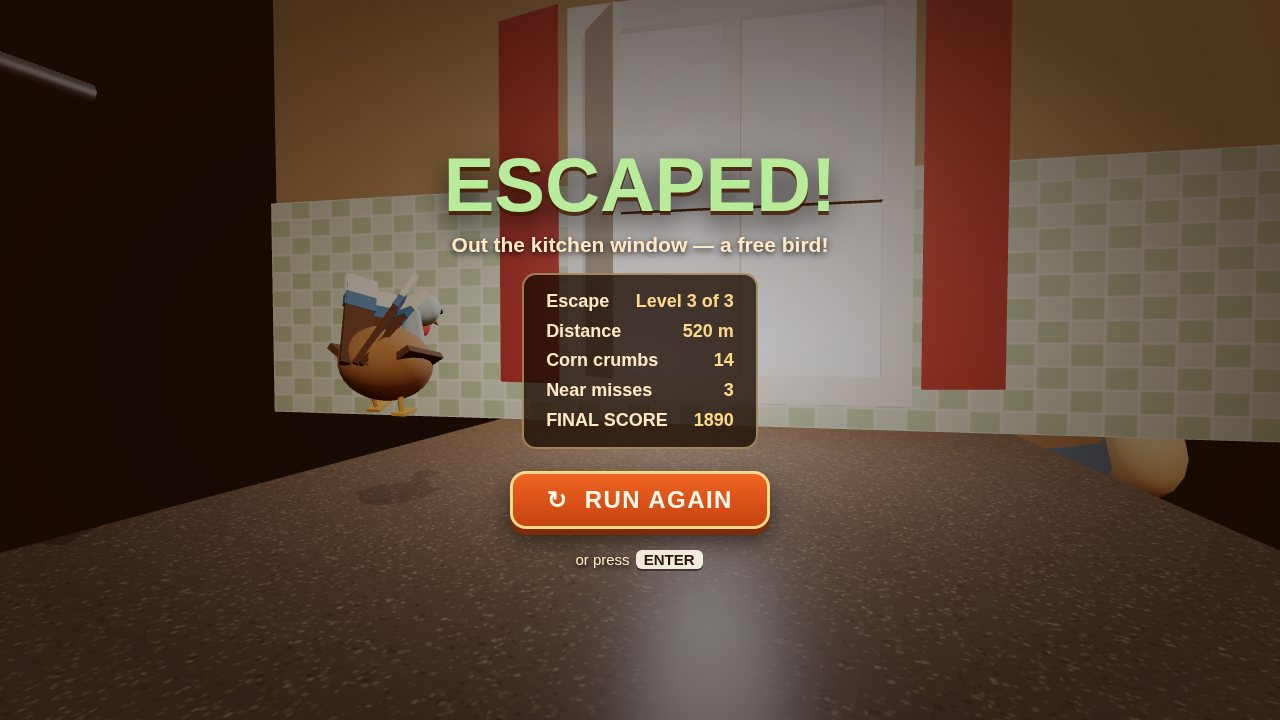
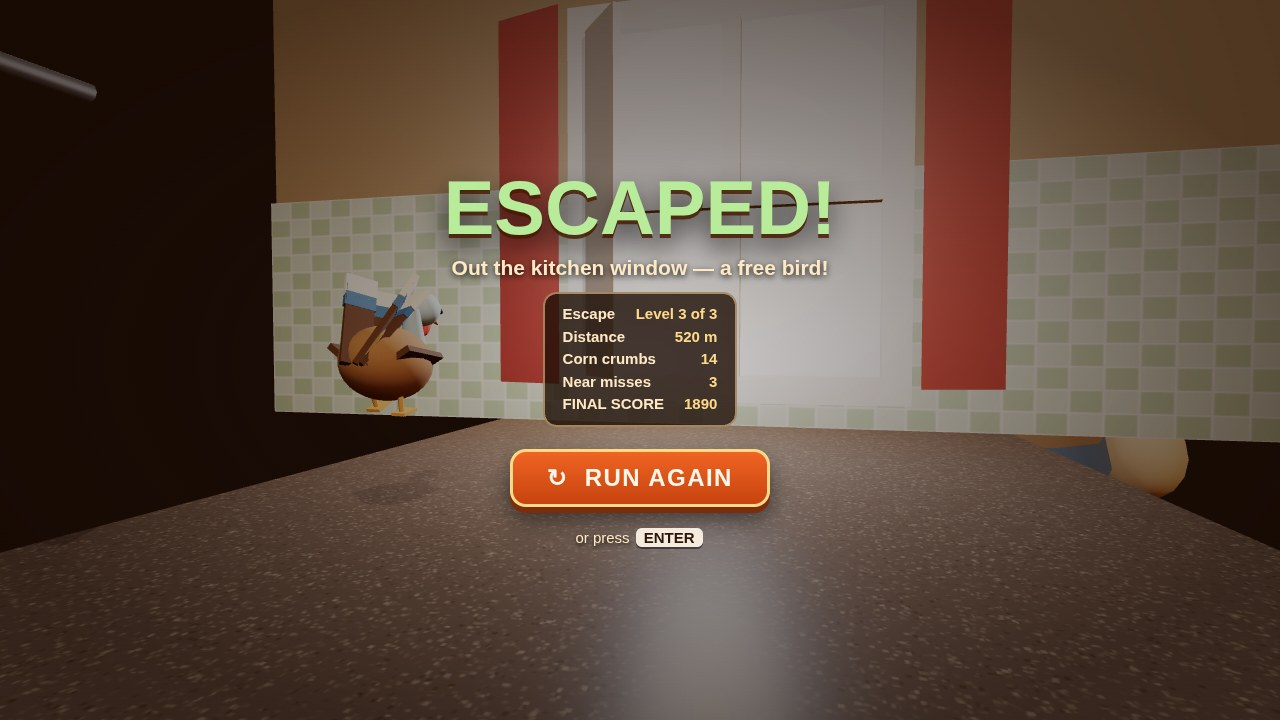
V2.1 frames: brighter L1 + visible grabbing hand, bigger CLOSE! pop, stronger window glow + smaller escaped stats, cat waking cues
- L1: exposure 1.12 -> 1.26, table hemi/fill lifted; hero hand re-staged
  swooping in from the top right, palm underside and curled fingers readable
- CLOSE! +15 flash: font clamp max 44px -> 60px, pop 0.9s -> 1.4s, still
  pinned at full scale
- L3 window: pane emissive 2.1 -> 3.4, window light 520 -> 950 (920±70 in
  update); escaped-screen stats panel shrunk (escaped-scoped CSS only)
- L2 cat: waking cues in applyCatPose — ear twitch (asymmetric, mid-wake
  envelope), head shake, staged eye-blink opening, tail flicker; floor
  still now poses the cat mid-wake instead of the asleep loaf
- Screenshots rebuilt (1280x720, all <= 262144 B), order unchanged

Changed region(s): [[0.3438, 0.2139, 0.75, 0.7944]]

diff --git a/game/src/shots.js b/game/src/shots.js
@@ -76,16 +76,16 @@ export function stageShot(name, game) {
     knife.blob.visible = true;
     knife.ring.position.set(-4.6, 0.26, -137.2);
     knife.ring.visible = true;
-    // The farmer's hand sweeps in at the right edge at cloth height — palm out
-    // of frame, fingers descending at the edge with the grab curl on, tips
-    // staggered like fingertips. (Centred and seen from above, the hand's flat
-    // faces filled half the frame as a wall of boards; at the edge it reads
-    // as what it is and leaves the bird alone.)
+    // The farmer's hand swoops in from the top right, pitched down so the
+    // camera sees the palm's underside and the fingers curling down toward
+    // the bird — a grabbing hand, not the edge-on stack of boards the old
+    // cloth-height, level placement rendered as. The cuff exits the frame's
+    // top right corner; the bird keeps the centre.
     const hand = hazards.hand;
-    hand.group.position.set(16.0, 3.4, -130.5);
-    hand.group.rotation.set(0.05, 1.5, 0.0);
+    hand.group.position.set(17.0, 9.2, -136.5);
+    hand.group.rotation.set(-0.85, 0.9, 0.15);
     hand.group.visible = true;
-    setGrab(hand, 0.75);
+    setGrab(hand, 0.85);
     let placed = 0;
     for (const c of hazards.corns) {
       if (placed >= 5) break;
@@ -106,6 +106,7 @@ export function stageShot(name, game) {
     const flashEl = document.getElementById('hud-flash');
     flashEl.style.animation = 'none'; // pin the pop at full strength for the still
     flashEl.style.opacity = '1';
+    flashEl.style.transform = 'scale(1)'; // …and at full size, not the resting 0.85
     // The farmer looms in the back so the pursuer registers at a glance.
     game.poseFarmer(1.15);
     game.poseCamera(
@@ -116,9 +117,10 @@ export function stageShot(name, game) {
   }
 
   if (name === 'floor') {
-    // Level 2: under the table on the giant tiles — the kitchen cat AWAKE at the
-    // lane's left edge watching the turkey, its paw mid-swipe, a water puddle
-    // gleaming ahead, chair and table legs standing in the lanes.
+    // Level 2: under the table on the giant tiles — the kitchen cat caught
+    // MID-WAKE at the lane's left edge (ears mid-twitch, eyes blinking open,
+    // tail flickering — waking, not asleep), its paw mid-swipe, a water
+    // puddle gleaming ahead, chair and table legs standing in the lanes.
     game.setWorld(1);
     game.state = 'playing';
     game.hud.showHud();
@@ -130,9 +132,9 @@ export function stageShot(name, game) {
     turkey.group.position.set(-1.0, 0, -101);
     const cat = hazards.cat;
     cat.group.position.set(-11.2, 0, -112);
-    cat.group.rotation.y = 0; // built facing +x: the head end watches the lane
+    cat.group.rotation.y = -0.35; // head end angled a touch toward the camera
     cat.group.visible = true;
-    hazards.wakeCatNow();
+    hazards.poseCatWaking(0.6, 1.35);
     const paw = hazards.paw;
     paw.phase = 'slam';
     paw.x = -4.8; paw.z = -109;

diff --git a/game/src/hazards.js b/game/src/hazards.js
@@ -499,12 +499,22 @@ export class Hazards {
     c.body.scale.set(1.2, 0.55 * br, 1.05);
     c.headPivot.position.y = 1.35 + p * 0.95;           // the head lifts as it wakes
     c.headPivot.rotation.z = 0.3 * (1 - p);             // …and untucks from the curl
-    c.earL.rotation.x = 0.55 * (1 - p);                 // ears folded flat asleep, perked awake
-    c.earR.rotation.x = -0.55 * (1 - p);
-    const eyeS = 0.15 + 0.85 * p;                       // slit eyes open
-    c.eyeL.scale.set(1, eyeS, 1);
-    c.eyeR.scale.set(1, eyeS, 1);
-    c.tail.rotation.y = Math.sin(t * (1.2 + p * 5.5)) * (0.05 + p * 0.16); // sway → lash
+    // Waking cues, strongest mid-wake: the ears twitch out of their fold one at
+    // a time, the head gives a little shake, the eyes blink open in stages and
+    // the tail flickers — so the 0.7 s wake reads as WAKING, not as a cat still
+    // asleep with its head up. All of it fades out by the time it is alert.
+    const waking = c.state === 'waking' ? 1 : 0;
+    const env = waking * Math.sin(Math.PI * Math.min(1, Math.max(0, p)));
+    c.headPivot.rotation.y = Math.sin(t * 34) * 0.07 * env;
+    c.earL.rotation.x = 0.55 * (1 - p) + Math.sin(t * 46) * 0.22 * env;  // folded asleep, perked awake…
+    c.earR.rotation.x = -0.55 * (1 - p) + Math.sin(t * 46 + 2.1) * 0.18 * env;
+    c.earL.rotation.z = Math.sin(t * 39) * 0.1 * env;                    // …twitching as they unfold
+    const blink = waking * Math.max(0, Math.sin(p * Math.PI * 2.5)) * 0.5 * (1 - p);
+    const eyeS = THREE.MathUtils.clamp(0.15 + 0.85 * p - blink, 0.08, 1); // slit eyes blink open
+    c.eyeL.scale.set(1 + 0.25 * p, eyeS, 1);
+    c.eyeR.scale.set(1 + 0.25 * p, eyeS, 1);
+    c.tail.rotation.y = Math.sin(t * (1.2 + p * 5.5)) * (0.05 + p * 0.16) // sway → lash…
+      + Math.sin(t * 31) * 0.15 * env;                                  // …with a fast flicker mid-wake
     for (let i = 0; i < c.zzz.length; i++) {
       const m = c.zzz[i];
       const ph = (t * 0.45 + i / c.zzz.length) % 1;
@@ -519,6 +529,16 @@ export class Hazards {
     this.cat.state = 'alert';
     this.cat.wakeP = 1;
     this.cat.primed = true;
+    this.applyCatPose(0);
+  }
+
+  /** Screenshot staging: freeze the cat mid-wake at wake progress p, phase t,
+   *  so the still shows the waking cues (ears mid-twitch, eyes blinking open,
+   *  tail mid-flicker) instead of the curled-asleep loaf. */
+  poseCatWaking(p, t) {
+    this.cat.state = 'waking';
+    this.cat.wakeP = p;
+    this.cat.animT = t;
     this.applyCatPose(0);
   }
 

diff --git a/game/src/table-world.js b/game/src/table-world.js
@@ -201,9 +201,9 @@ export function buildTableWorld(scene, random, GEOM = { edgeZ: -186, floorY: -34
   scene.background = new THREE.Color(0x1a0d06);
   scene.fog = new THREE.Fog(0x1a0d06, 70, 265);
 
-  const hemi = new THREE.HemisphereLight(0xffd9a6, 0x40200e, 0.8);
+  const hemi = new THREE.HemisphereLight(0xffd9a6, 0x40200e, 1.05);
   group.add(hemi);
-  const fill = new THREE.DirectionalLight(0xffc9a0, 0.55);
+  const fill = new THREE.DirectionalLight(0xffc9a0, 0.7);
   fill.position.set(-14, 20, 30);
   group.add(fill);
   const key = new THREE.DirectionalLight(0xffe3b3, 2.4);
@@ -684,7 +684,7 @@ export function buildCounterWorld(scene, random, GEOM = { length: 170, halfWidth
   // ---- The window: open, bright, the way out ----------------------------------
   const winGroup = new THREE.Group();
   const pane = new THREE.Mesh(new THREE.PlaneGeometry(17, 21),
-    new THREE.MeshStandardMaterial({ color: 0xcfe4ff, emissive: 0xbfd9ff, emissiveIntensity: 2.1 }));
+    new THREE.MeshStandardMaterial({ color: 0xcfe4ff, emissive: 0xbfd9ff, emissiveIntensity: 3.4 }));
   winGroup.add(pane);
   const frameMat = new THREE.MeshStandardMaterial({ color: 0xf1e8d6, roughness: 0.6 });
   for (const [w, h, x, y] of [[19, 1.6, 0, 11.2], [19, 1.6, 0, -11.2], [1.6, 24, -9.2, 0], [1.6, 24, 9.2, 0], [17, 1.1, 0, 0], [1.1, 21, 0, 0]]) {
@@ -712,7 +712,7 @@ export function buildCounterWorld(scene, random, GEOM = { length: 170, halfWidth
   }
   winGroup.position.set(0, 13.5, finishZ - 13);
   group.add(winGroup);
-  const windowLight = new THREE.PointLight(0xd8e8ff, 520, 120, 1.7);
+  const windowLight = new THREE.PointLight(0xd8e8ff, 950, 150, 1.7);
   windowLight.position.set(0, 13, finishZ - 4);
   group.add(windowLight);
 
@@ -793,7 +793,7 @@ export function buildCounterWorld(scene, random, GEOM = { length: 170, halfWidth
     update(dt, t) {
       for (const s of swayers) s.pivot.rotation.x = Math.sin(t * 1.25 + s.phase) * 0.07;
       ovenGlow.material.emissiveIntensity = 1.55 + Math.sin(t * 2.2) * 0.16 + Math.sin(t * 7.7) * 0.06;
-      windowLight.intensity = 505 + Math.sin(t * 1.7) * 40;
+      windowLight.intensity = 920 + Math.sin(t * 1.7) * 70;
     },
   };
 }

diff --git a/game/index.html b/game/index.html
@@ -79,7 +79,7 @@
   }
   #hud-flash {
     position: absolute; left: 0; right: 0; top: 24%; text-align: center;
-    font-size: clamp(22px, 4.6vw, 44px); font-weight: 900; letter-spacing: 0.05em;
+    font-size: clamp(30px, 6.2vw, 60px); font-weight: 900; letter-spacing: 0.05em;
     color: #ffe9c4; text-shadow: 0 3px 0 #7a2d0d, 0 6px 14px rgba(0,0,0,0.7);
     opacity: 0; transform: scale(0.85);
   }
@@ -93,12 +93,12 @@
     15% { opacity: 1; }
     100% { opacity: 0; }
   }
-  #hud-flash.pop { animation: flashpop 0.9s ease-out; }
+  #hud-flash.pop { animation: flashpop 1.4s ease-out; }
   @keyframes flashpop {
     0% { opacity: 0; transform: scale(0.8); }
-    18% { opacity: 1; transform: scale(1.06); }
-    30% { transform: scale(1); }
-    75% { opacity: 1; }
+    14% { opacity: 1; transform: scale(1.08); }
+    22% { transform: scale(1); }
+    78% { opacity: 1; }
     100% { opacity: 0; transform: scale(1.02); }
   }
 
@@ -158,6 +158,12 @@
     font-size: clamp(14px, 2.2vw, 18px); line-height: 1.65; font-weight: 700; color: #ffe9c4;
   }
   .end-stats span { color: #ffd98a; float: right; margin-left: 26px; }
+  /* On the escaped screen the window behind is the picture: the stats shrink back. */
+  #end-screen.escaped .end-stats {
+    font-size: clamp(12px, 1.8vw, 15px);
+    padding: 9px 18px; line-height: 1.5; margin-top: 12px;
+  }
+  #end-screen.escaped .end-stats span { margin-left: 20px; }
 </style>
 </head>
 <body>

diff --git a/game/src/main.js b/game/src/main.js
@@ -261,8 +261,9 @@ function startLevel(i) {
   game.state = 'playing';
   game.hud.showHud();
   game.hud.update(Math.floor(game.score), game.lives, 0);
-  // The countertop sits in bright window light; the other levels keep the base exposure.
-  renderer.toneMappingExposure = i === 2 ? 1.3 : 1.12;
+  // The countertop sits in bright window light and the dinner table is lifted a
+  // touch over base; the kitchen floor keeps the base exposure.
+  renderer.toneMappingExposure = i === 2 ? 1.3 : i === 0 ? 1.26 : 1.12;
 }
 
 function resetRun() {
@@ -573,7 +574,7 @@ const shot = params.get('shot');
 if (shot) {
   stageShot(shot, game);
   // Stills get the same per-level exposure a live run would (see startLevel).
-  renderer.toneMappingExposure = game.levelIndex === 2 ? 1.3 : 1.12;
+  renderer.toneMappingExposure = game.levelIndex === 2 ? 1.3 : game.levelIndex === 0 ? 1.26 : 1.12;
   // Pose the bird for the still, settle the world one tick, then paint twice.
   const pose = {
     title: { runPhase: 0.6, airborne: 0 },
